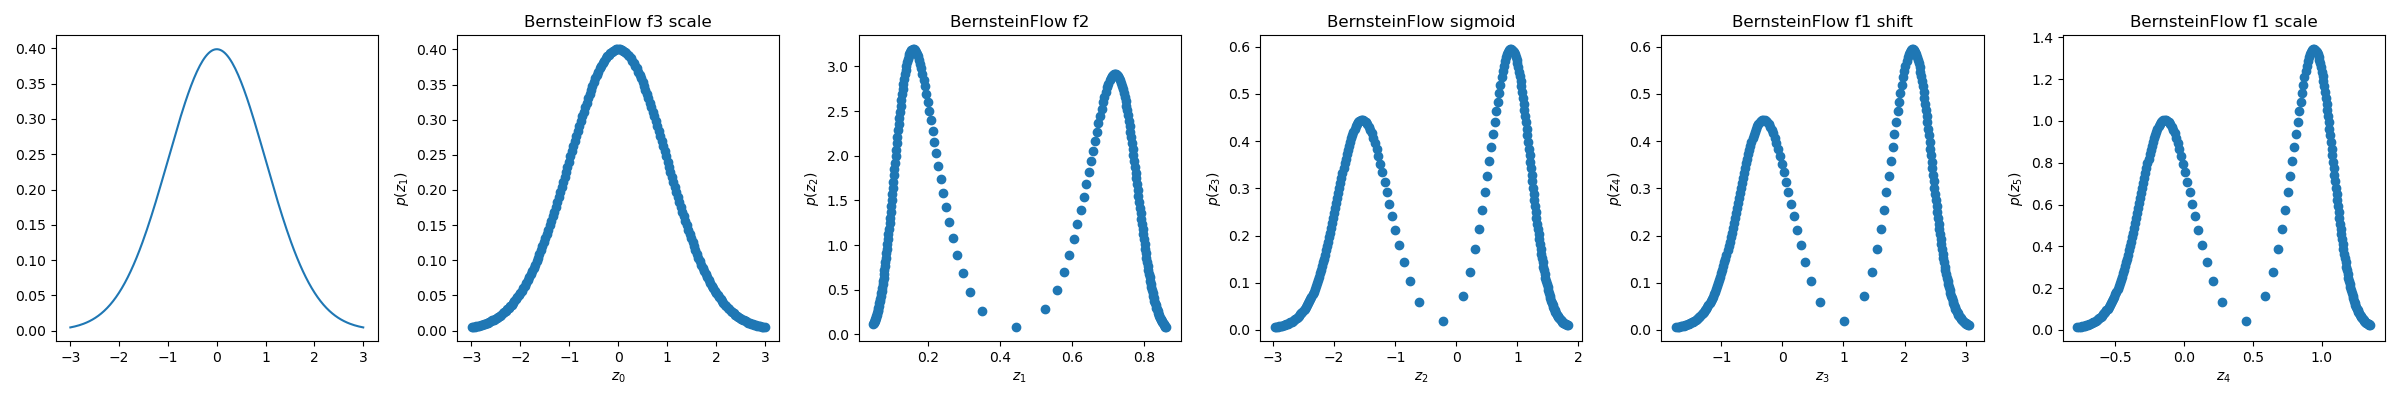
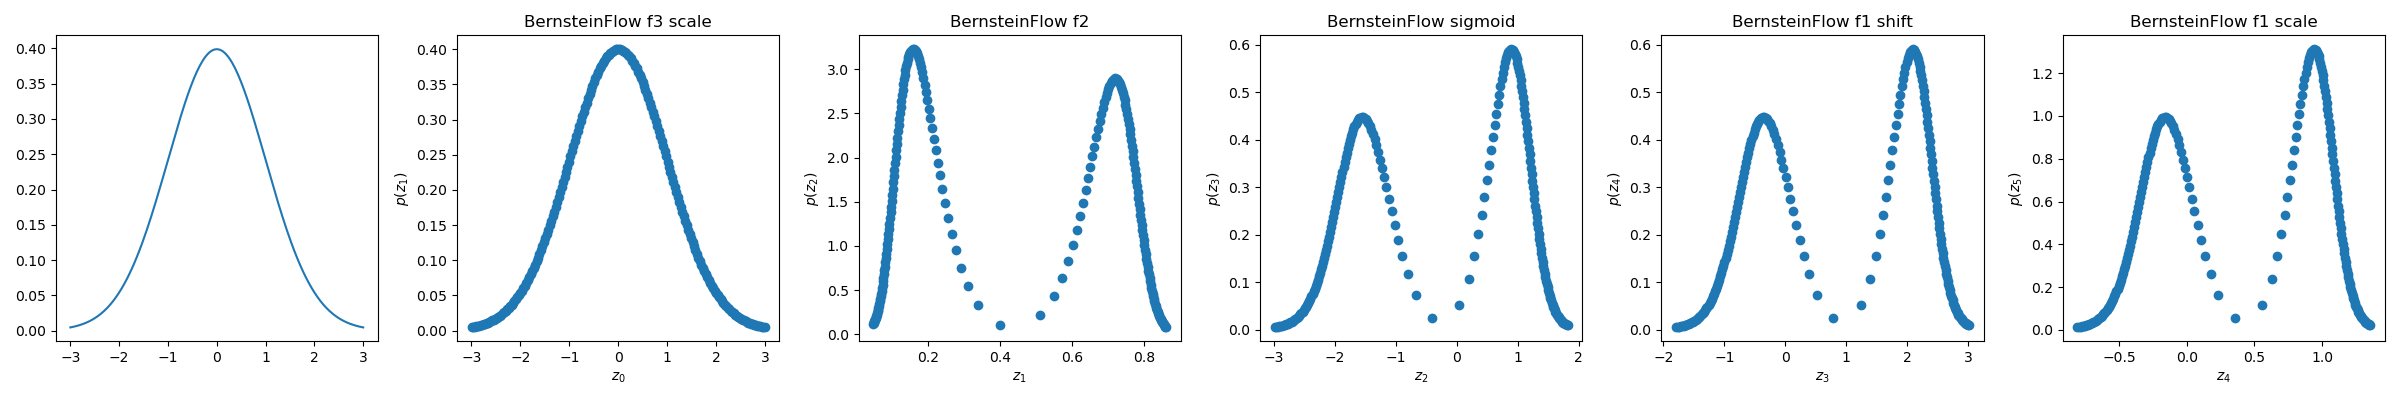
removes dependecy for sklearn

diff --git a/cml/bimodal.py b/cml/bimodal.py
@@ -16,10 +16,7 @@ from functools import partial
 import pandas as pd
 import numpy as np
 
-
 import matplotlib.pyplot as plt
-
-from sklearn.utils import shuffle
 
 import tensorflow as tf
 import tensorflow_probability as tfp
@@ -79,7 +76,7 @@ def gen_data(t):
     t = np.concatenate([t1, t2])
     y = np.concatenate([y1, y2])
 
-    return shuffle(t[..., np.newaxis], y[..., np.newaxis], random_state=0)
+    return t[..., np.newaxis], y[..., np.newaxis]
 
 
 def gen_test_data(n=5, observations=100):
